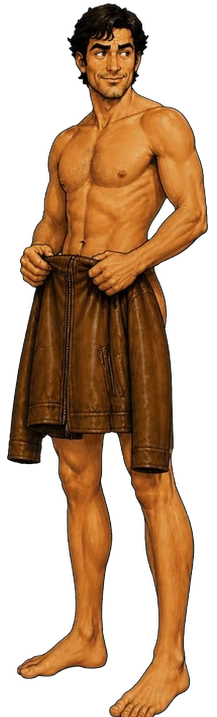
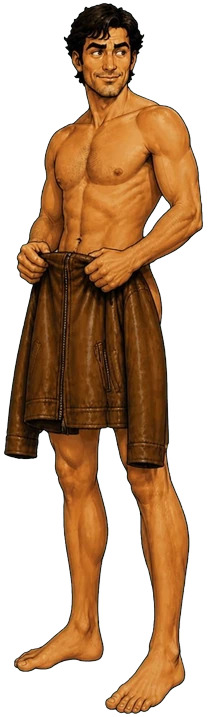
Restyle review: 7 more Canva frames fitted (undress3/4, dress1, trunks_snap, jacket_wink, fling, trunks_step)
canva_restyle_fit.py FIT_MODE=stand: standing frames fitted head-to-toe with the feet on the original's floor line
(Canva draws him leaner and longer-legged, so the silhouette search stretched him); jacket refitted the same way.

Claude-Session: https://claude.ai/code/session_019ZhXep33AJctyzncvnQT4h

Changed region(s): [[0.0, 0.0, 0.9677, 1.0], [0.7742, 0.7671, 0.8018, 0.7978]]

diff --git a/scripts/canva_restyle_fit.py b/scripts/canva_restyle_fit.py
@@ -36,6 +36,20 @@ def main(k, src, pads, out):
         oy, ox = np.nonzero(oa); s = (oy.max() + 1 - oy.min()) / fig.height
         fig = fig.resize((max(1, round(fig.width * s)), oy.max() + 1 - oy.min()), Image.LANCZOS)
         g = Image.new('RGBA', (W, H)); g.paste(fig, (round((ox.min() + ox.max()) / 2 - fig.width / 2), int(oy.min())), fig)
+    if os.environ.get('FIT_MODE') == 'stand':
+        # standing frames: Canva draws him taller and leaner, so a silhouette match stretches him; instead head-to-toe
+        # height to the original's, feet on its floor line, the head over its head
+        def ext(a):
+            ys, xs = np.nonzero(a); top, bot = ys.min(), ys.max() + 1
+            hy = a[top:top + max(4, (bot - top) // 12)]; hx = np.nonzero(hy)[1].mean()
+            return top, bot, hx
+        ga0 = np.asarray(g)[..., 3] > 128
+        gt, gb, gx = ext(ga0); ot, ob, ox_ = ext(oa); s = (ob - ot) / (gb - gt)
+        M = np.float32([[s, 0, ox_ - gx * s], [0, s, ob - gb * s]])
+        fit = cv2.warpAffine(np.asarray(g), M, (W, H), flags=cv2.INTER_LANCZOS4, borderValue=(0, 0, 0, 0))
+        Image.fromarray(fit, 'RGBA').save(out, 'WEBP', quality=92, method=6)
+        fa = fit[..., 3] > 128
+        print(f'{k}: stand fit scale {s:.2f} iou {(fa & oa).sum() / max(1, (fa | oa).sum()):.3f} -> {out}'); return
     ga = np.asarray(g)[..., 3] > 128
     # fine fit: scale about the centre and shift, on masks at a quarter size
     s4 = 4; o4 = cv2.resize(oa.astype(np.uint8), (W // s4, H // s4)) > 0
